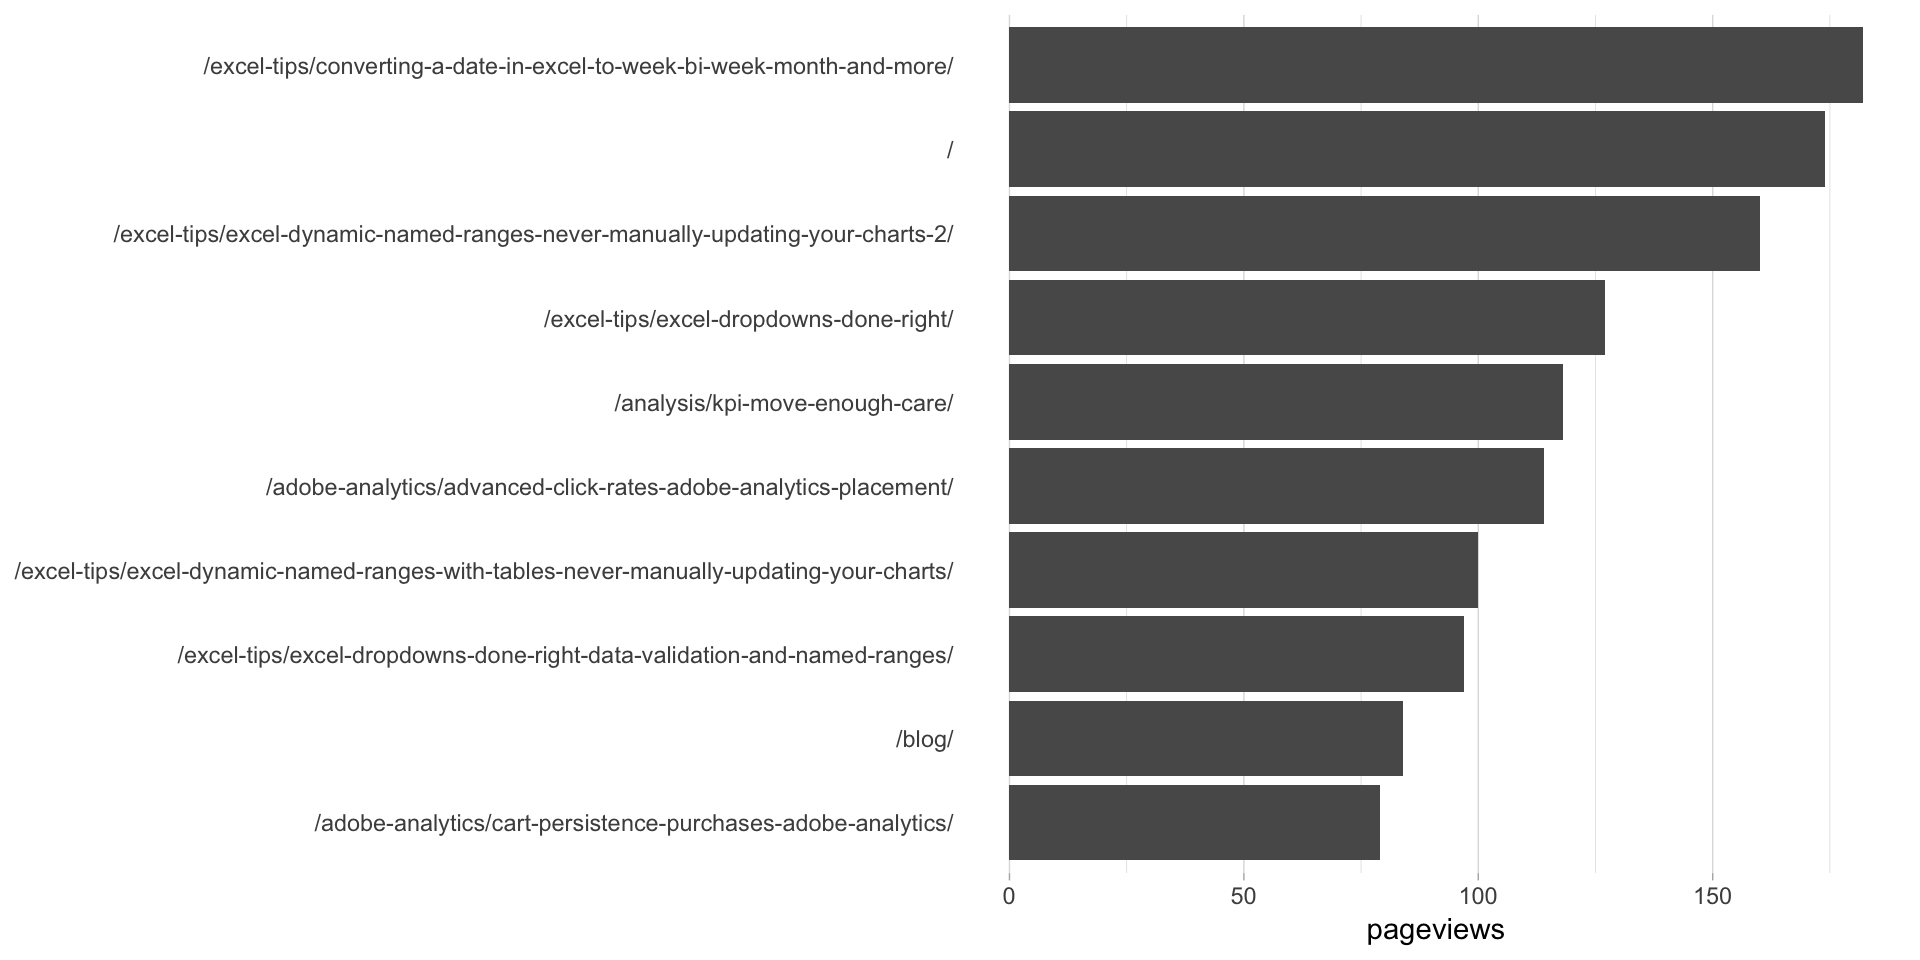
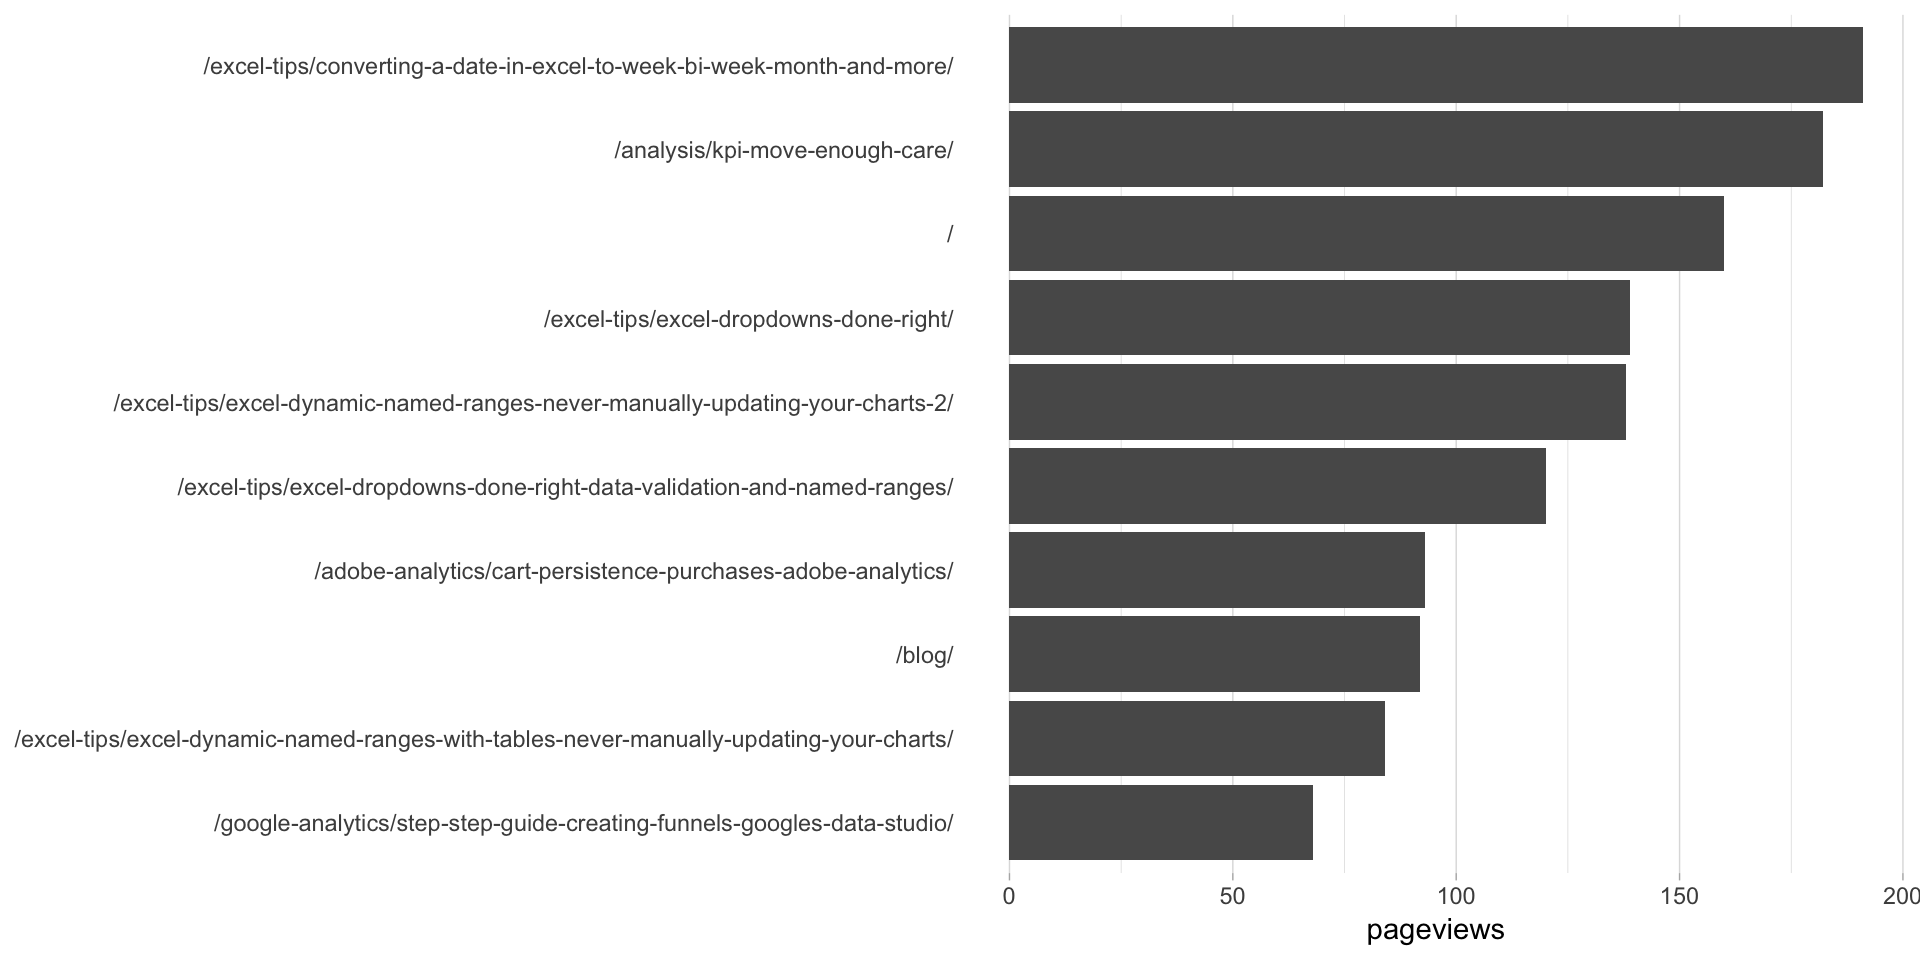
Fixed minor typos

diff --git a/googleanalytics/simple-dynamic-segment.html b/googleanalytics/simple-dynamic-segment.html
@@ -365,7 +365,7 @@ head(ga_data)</code></pre>
 <tr class="odd">
 <td align="left">/</td>
 <td align="left">Mobile Sessions Only</td>
-<td align="right">174</td>
+<td align="right">160</td>
 </tr>
 <tr class="even">
 <td align="left">/?author_name=&amp;cat=</td>
@@ -378,17 +378,17 @@ head(ga_data)</code></pre>
 <td align="right">2</td>
 </tr>
 <tr class="even">
+<td align="left">/?author_name=&amp;cat=658</td>
+<td align="left">Mobile Sessions Only</td>
+<td align="right">3</td>
+</tr>
+<tr class="odd">
 <td align="left">/?p=43</td>
 <td align="left">Mobile Sessions Only</td>
 <td align="right">1</td>
 </tr>
-<tr class="odd">
-<td align="left">/2/library/</td>
-<td align="left">Mobile Sessions Only</td>
-<td align="right">1</td>
-</tr>
 <tr class="even">
-<td align="left">/2/library/index.asp?c=Technical</td>
+<td align="left">/2/library/index.asp</td>
 <td align="left">Mobile Sessions Only</td>
 <td align="right">1</td>
 </tr>
@@ -400,7 +400,7 @@ head(ga_data)</code></pre>
 <p>Since we didn’t sort the data when we queried it, let’s go ahead and sort it here <em>and</em> grab just the top 10 pages.</p>
 <pre class="r"><code># Using dplyr, sort descending and then grab the top 10 values. We also need to make the
 # page column a factor so that the order will be what we want when we chart the data.
-# This is a nuisance, but you get used to it. That&#39;s what the mutate functio is doing
+# This is a nuisance, but you get used to it. That&#39;s what the mutate function is doing.
 ga_data_top_10 &lt;- ga_data %&gt;%
   arrange(-pageviews) %&gt;% 
   top_n(10) %&gt;% 
@@ -421,32 +421,32 @@ head(ga_data_top_10)</code></pre>
 <tr class="odd">
 <td align="left">/excel-tips/converting-a-date-in-excel-to-week-bi-week-month-and-more/</td>
 <td align="left">Mobile Sessions Only</td>
-<td align="right">182</td>
+<td align="right">191</td>
 </tr>
 <tr class="even">
-<td align="left">/</td>
+<td align="left">/analysis/kpi-move-enough-care/</td>
 <td align="left">Mobile Sessions Only</td>
-<td align="right">174</td>
+<td align="right">182</td>
 </tr>
 <tr class="odd">
-<td align="left">/excel-tips/excel-dynamic-named-ranges-never-manually-updating-your-charts-2/</td>
+<td align="left">/</td>
 <td align="left">Mobile Sessions Only</td>
 <td align="right">160</td>
 </tr>
 <tr class="even">
 <td align="left">/excel-tips/excel-dropdowns-done-right/</td>
 <td align="left">Mobile Sessions Only</td>
-<td align="right">127</td>
+<td align="right">139</td>
 </tr>
 <tr class="odd">
-<td align="left">/analysis/kpi-move-enough-care/</td>
+<td align="left">/excel-tips/excel-dynamic-named-ranges-never-manually-updating-your-charts-2/</td>
 <td align="left">Mobile Sessions Only</td>
-<td align="right">118</td>
+<td align="right">138</td>
 </tr>
 <tr class="even">
-<td align="left">/adobe-analytics/advanced-click-rates-adobe-analytics-placement/</td>
+<td align="left">/excel-tips/excel-dropdowns-done-right-data-validation-and-named-ranges/</td>
 <td align="left">Mobile Sessions Only</td>
-<td align="right">114</td>
+<td align="right">120</td>
 </tr>
 </tbody>
 </table>

diff --git a/googleanalytics/setup.html b/googleanalytics/setup.html
@@ -318,9 +318,7 @@ if (length(setdiff(packages, rownames(installed.packages()))) &gt; 0) {
   install.packages(setdiff(packages, rownames(installed.packages())))  
 }</code></pre>
 <p>You should be all set! The examples should all work!</p>
-<ul>
-<li><em>Subjectively… but it’s what <span class="citation">[@HoloMarkeD]</span>(<a href="http://twitter.com/holomarked" class="uri">http://twitter.com/holomarked</a>) does, and you can come up with your own special way at your own risk.</em></li>
-</ul>
+<p>* <em>Subjectively… but it’s what <a href="http://twitter.com/holomarked">@HoloMarkeD</a> does, and you can come up with your own special way at your own risk.</em></p>
 </div>
 
 <hr>
